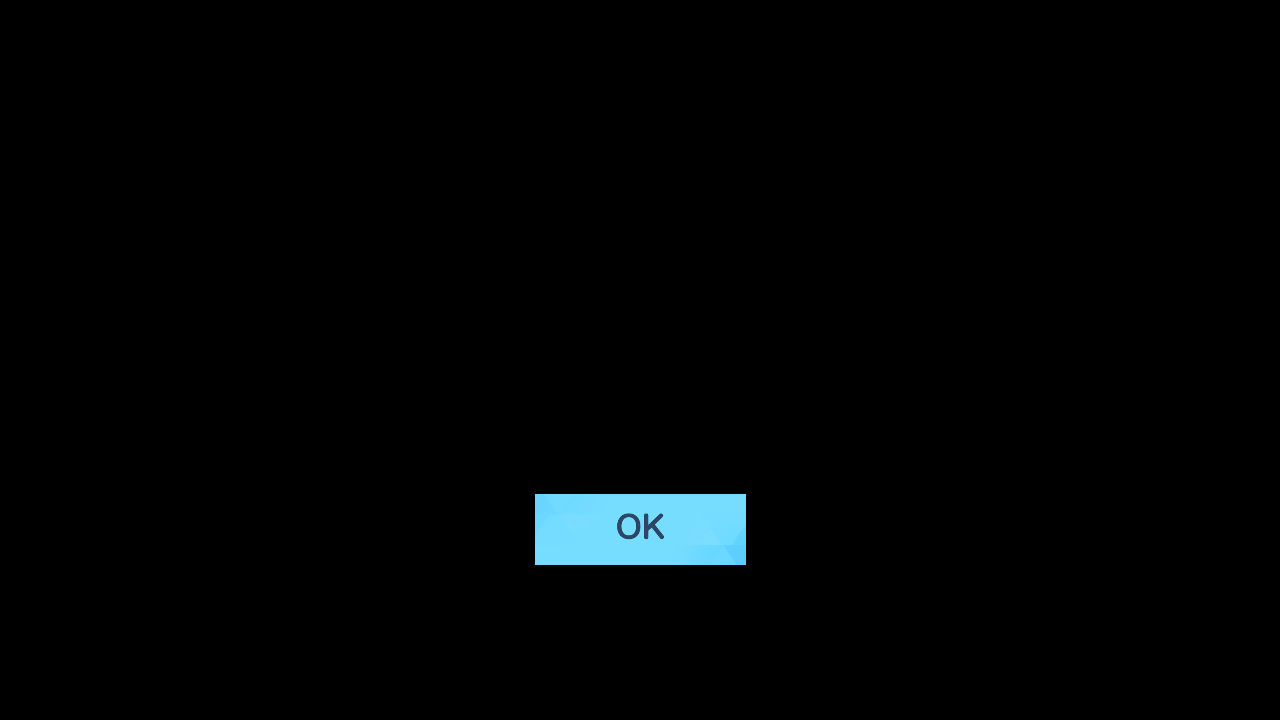
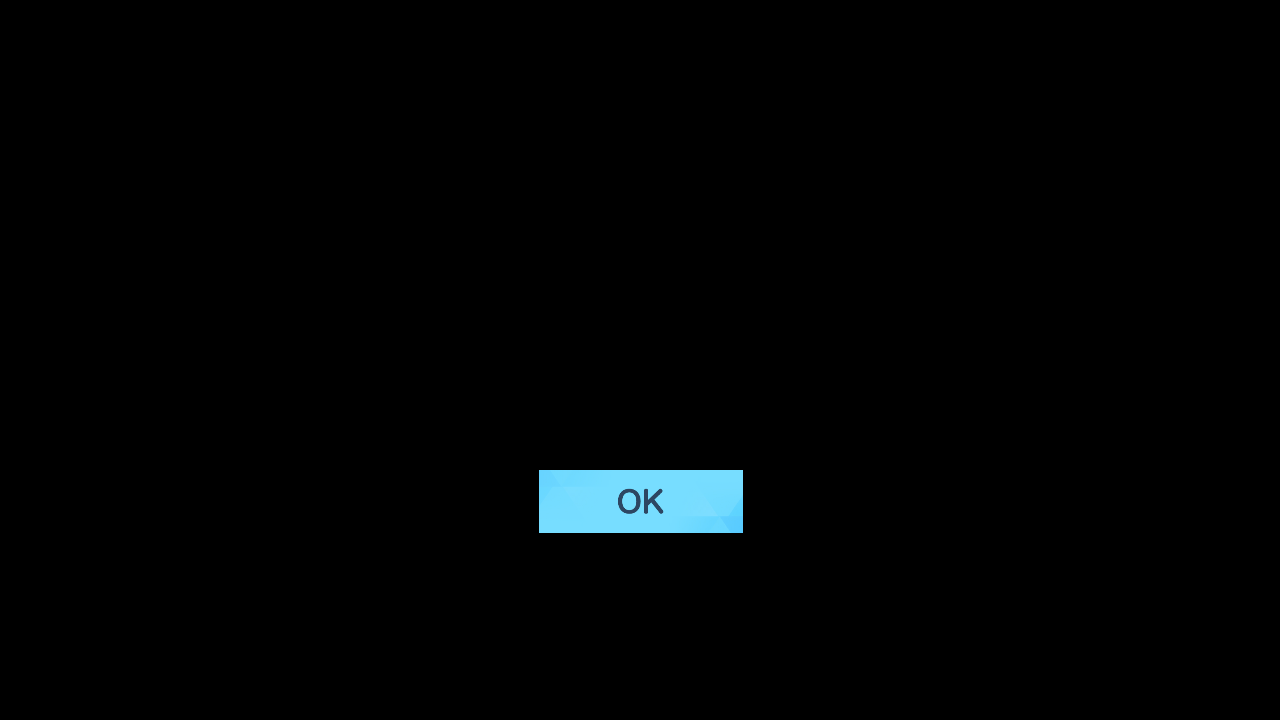
fix(popup): make correction to ap exceed and add insufficient inventory for JP

Changed region(s): [[0.4062, 0.6417, 0.5938, 0.7944]]

diff --git a/tasks/base/assets/assets_base_popup.py b/tasks/base/assets/assets_base_popup.py
@@ -24,10 +24,10 @@ AP_EXCEED = ButtonWrapper(
     name='AP_EXCEED',
     jp=Button(
         file='./assets/jp/base/popup/AP_EXCEED.png',
-        area=(610, 124, 669, 153),
-        search=(590, 104, 689, 173),
-        color=(139, 153, 168),
-        button=(535, 494, 746, 565),
+        area=(611, 147, 669, 177),
+        search=(591, 127, 689, 197),
+        color=(143, 156, 170),
+        button=(539, 470, 743, 533),
     ),
     en=Button(
         file='./assets/en/base/popup/AP_EXCEED.png',
@@ -124,7 +124,13 @@ GET_REWARD_SKIP = ButtonWrapper(
 )
 INSUFFICIENT_INVENTORY = ButtonWrapper(
     name='INSUFFICIENT_INVENTORY',
-    jp=None,
+    jp=Button(
+        file='./assets/jp/base/popup/INSUFFICIENT_INVENTORY.png',
+        area=(610, 124, 669, 153),
+        search=(590, 104, 689, 173),
+        color=(139, 153, 168),
+        button=(535, 494, 746, 565),
+    ),
     en=Button(
         file='./assets/en/base/popup/INSUFFICIENT_INVENTORY.png',
         area=(578, 117, 703, 152),

diff --git a/tasks/base/popup.py b/tasks/base/popup.py
@@ -94,6 +94,12 @@ class PopupHandler(ModuleBase):
 
         return False
 
+    def handle_insufficient_inventory(self, interval=5) -> bool:
+        if self.appear_then_click(INSUFFICIENT_INVENTORY, interval=interval):
+            return True
+
+        return False
+
     def handle_item_expired(self, interval=5) -> bool:
         if self.appear_then_click(ITEM_EXPIRED, interval=interval):
             return True

diff --git a/tasks/base/ui.py b/tasks/base/ui.py
@@ -345,6 +345,8 @@ class UI(MainPage):
             return True
         if self.handle_ap_exceed():
             return True
+        if self.handle_insufficient_inventory():
+            return True
         if self.handle_item_expired():
             return True
 
